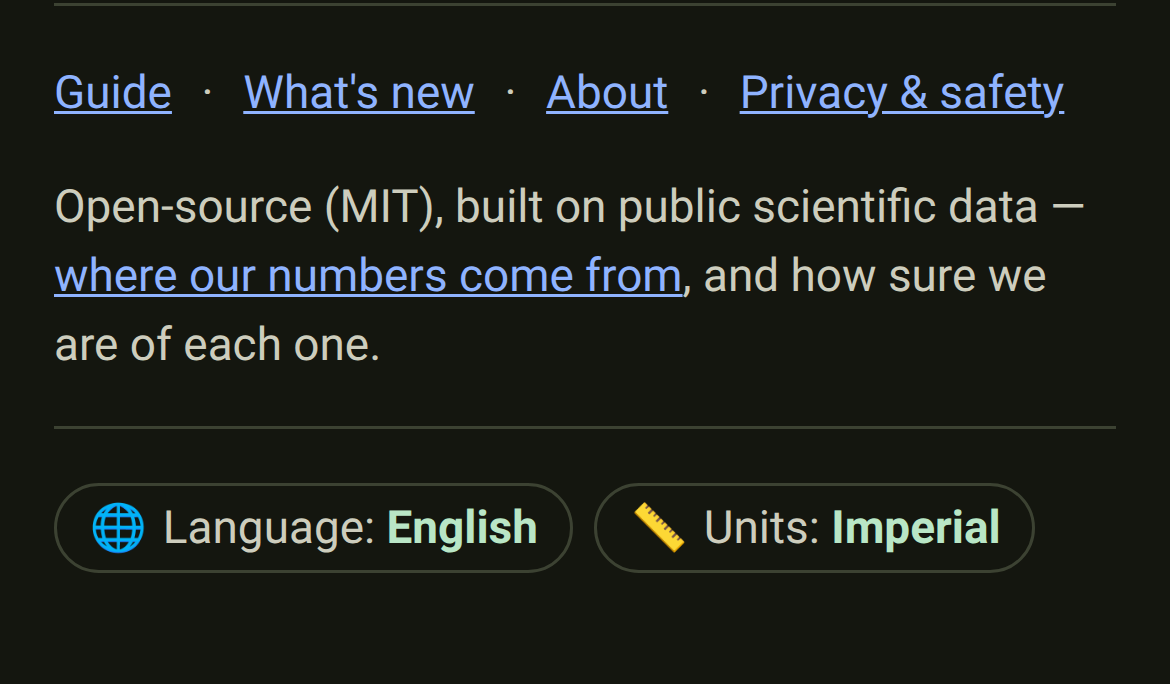
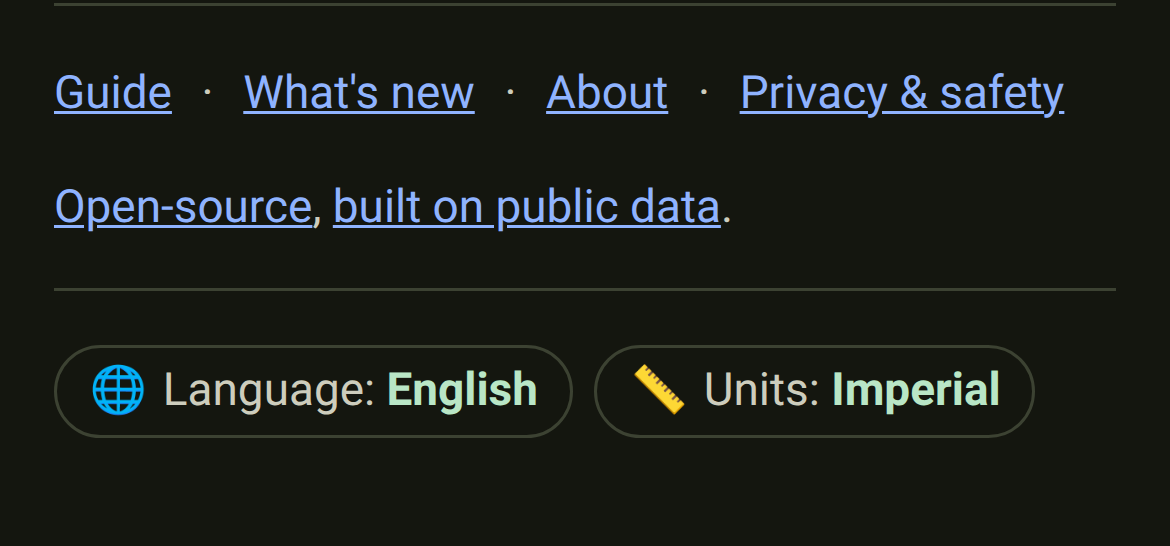
Footer: trim the provenance line to two links
The sentence carried more words than it needed. It's now just two links:
"Open-source" to the repository, and "built on public data" to the sources
page — Open-source, built on public data. Both languages.

Claude-Session: https://claude.ai/code/session_01NJkvxLF2GP7CnC1CJV1f2y

diff --git a/app/src/locales/fr.ts b/app/src/locales/fr.ts
@@ -49,9 +49,10 @@ export const fr: Dict = {
   "pullToReload.release": "Relâchez pour recharger",
   "pullToReload.reloading": "Rechargement…",
   "footer.text":
-    "Libre (licence MIT), bâti sur des données scientifiques publiques — {sources}, et à quel point nous en sommes sûrs.",
+    "{repo}, {sources}.",
+  "footer.repo": "Libre",
   "footer.about": "À propos",
-  "footer.sources": "d'où viennent nos chiffres",
+  "footer.sources": "bâti sur des données publiques",
   "footer.guide": "Guide",
   "footer.releaseNotes": "Nouveautés",
   "footer.privacy": "Vie privée et sécurité",

diff --git a/app/index.html b/app/index.html
@@ -198,9 +198,8 @@
         <a href="#/privacy">Privacy &amp; safety</a>
       </nav>
       <p id="footer-text">
-        Open-source (MIT), built on public scientific data —
-        <a href="#/sources">where our numbers come from</a>, and how sure we are
-        of each one.
+        <a href="https://github.com/olivierlacan/indigene">Open-source</a>,
+        <a href="#/sources">built on public data</a>.
       </p>
       <!-- Language & units — two links, because they are two settings. Written
            as one "English · Imperial" line they read as a single "locale"

diff --git a/app/src/locales/en.ts b/app/src/locales/en.ts
@@ -53,9 +53,10 @@ export const en = {
   "pullToReload.release": "Release to reload",
   "pullToReload.reloading": "Reloading…",
   "footer.text":
-    "Open-source (MIT), built on public scientific data — {sources}, and how sure we are of each one.",
+    "{repo}, {sources}.",
+  "footer.repo": "Open-source",
   "footer.about": "About",
-  "footer.sources": "where our numbers come from",
+  "footer.sources": "built on public data",
   "footer.guide": "Guide",
   "footer.releaseNotes": "What's new",
   "footer.privacy": "Privacy & safety",

diff --git a/app/src/components/chrome.ts b/app/src/components/chrome.ts
@@ -77,6 +77,7 @@ function renderFooter(): void {
   if (p) {
     p.replaceChildren(
       ...tx("footer.text", {
+        repo: el("a", { href: "https://github.com/olivierlacan/indigene" }, t("footer.repo")),
         sources: el("a", { href: "#/sources" }, t("footer.sources")),
       })
     );
